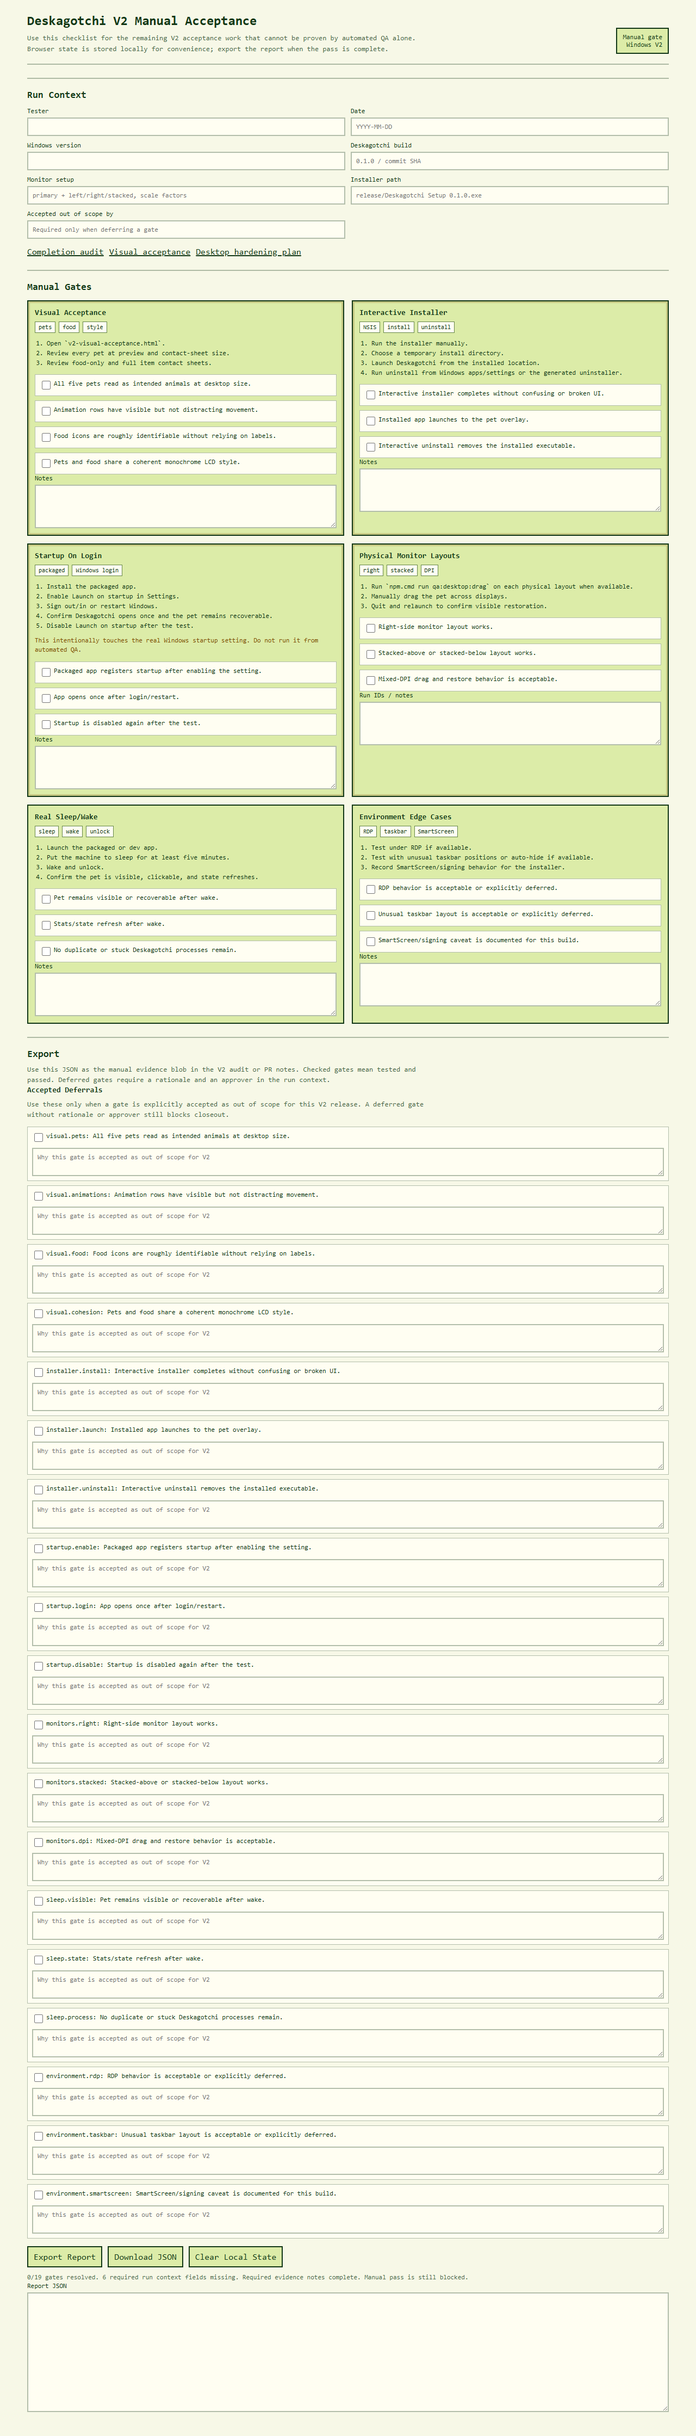
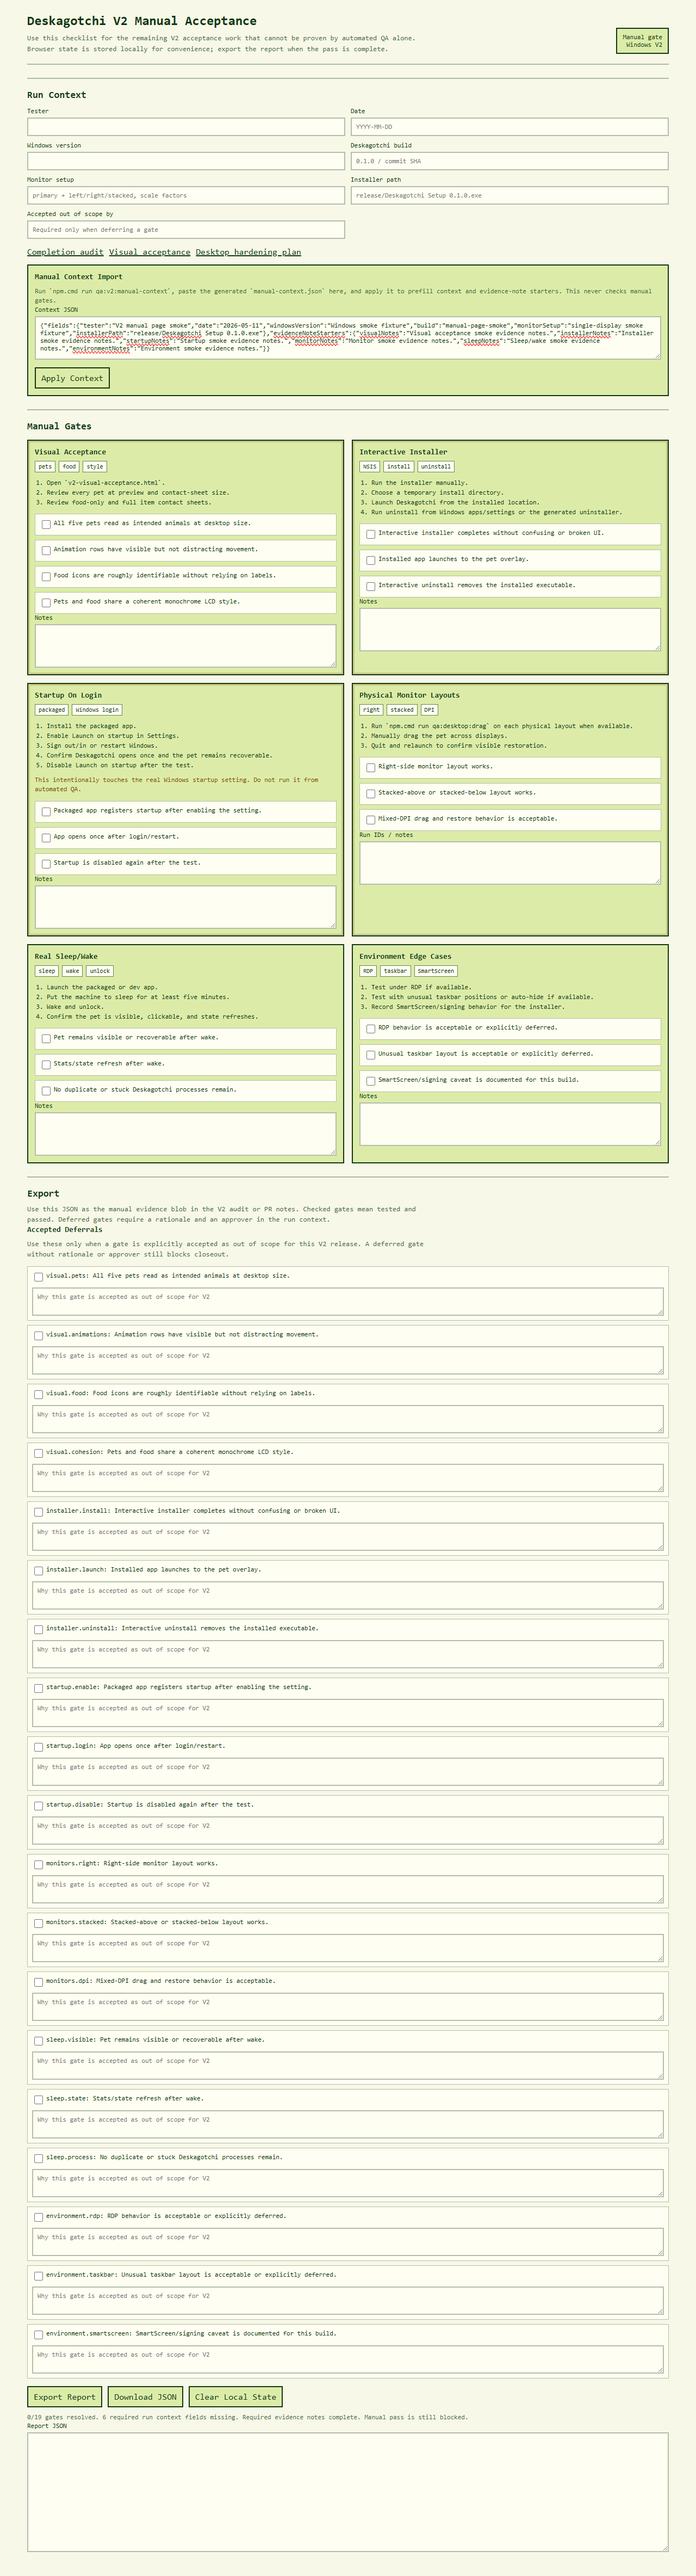
test(qa): import V2 manual context into checklist

Changed region(s): [[0.0312, 0.0, 0.9688, 0.9623], [0.875, 0.0, 0.9688, 0.031]]

diff --git a/docs/qa/v2-manual-acceptance.html b/docs/qa/v2-manual-acceptance.html
@@ -117,6 +117,10 @@
         box-shadow: inset 0 0 0 3px rgba(125, 77, 0, 0.22);
       }
 
+      .context-import {
+        margin-top: 14px;
+      }
+
       .meta {
         display: flex;
         flex-wrap: wrap;
@@ -288,6 +292,18 @@
           <a href="./v2-completion-audit.md">Completion audit</a>
           <a href="./v2-visual-acceptance.html">Visual acceptance</a>
           <a href="./desktop-hardening-v2.md">Desktop hardening plan</a>
+        </div>
+        <div class="card context-import">
+          <h3>Manual Context Import</h3>
+          <p class="status-line">
+            Run `npm.cmd run qa:v2:manual-context`, paste the generated
+            `manual-context.json` here, and apply it to prefill context and
+            evidence-note starters. This never checks manual gates.
+          </p>
+          <label class="field">Context JSON <textarea data-context-import></textarea></label>
+          <div class="actions">
+            <button type="button" data-action="apply-context">Apply Context</button>
+          </div>
         </div>
       </section>
 
@@ -660,12 +676,39 @@
       }
       document.querySelector("[data-action='export']").addEventListener("click", exportReport);
       document.querySelector("[data-action='download']").addEventListener("click", downloadReport);
+      document.querySelector("[data-action='apply-context']").addEventListener("click", applyManualContext);
       document.querySelector("[data-action='clear']").addEventListener("click", () => {
         localStorage.removeItem(storageKey);
         restoreState();
         exportOutput.value = "";
         updateProgress();
       });
+
+      function applyManualContext() {
+        const input = document.querySelector("[data-context-import]");
+        let context;
+        try {
+          context = JSON.parse(input.value || "{}");
+        } catch {
+          updateProgress("Manual context import failed: JSON could not be parsed.");
+          return;
+        }
+
+        for (const [fieldName, value] of Object.entries(context.fields || {})) {
+          const field = document.querySelector(`[data-field="${fieldName}"]`);
+          if (field && typeof value === "string") {
+            field.value = value;
+          }
+        }
+        for (const [fieldName, value] of Object.entries(context.evidenceNoteStarters || {})) {
+          const field = document.querySelector(`[data-field="${fieldName}"]`);
+          if (field && typeof value === "string") {
+            field.value = value;
+          }
+        }
+        saveState();
+        updateProgress("Manual context imported. Manual gates still require human checks or explicit deferrals.");
+      }
     </script>
   </body>
 </html>

diff --git a/docs/qa/using-qa.md b/docs/qa/using-qa.md
@@ -83,7 +83,9 @@ npm.cmd run qa:v2:manual-context
 This writes `.qa-runs/<run-id>-manual-context/report.md` with the current
 commit, package version, Windows version, installer candidate, latest QA run
 IDs, monitor topology from drag QA, and starter notes. It is only a prep
-artifact; it does not mark any manual gate as passed.
+artifact; it does not mark any manual gate as passed. Paste the generated
+`manual-context.json` into the manual checklist's context import box to prefill
+fields without checking any gate.
 
 Strict V2 closeout also requires a clean Git worktree. Use `--allow-dirty` only
 for fixture smoke checks such as `npm.cmd run qa:v2:audit:smoke`; do not use it

diff --git a/README.md b/README.md
@@ -172,7 +172,9 @@ npm.cmd run qa:v2:manual-context
 
 This writes `.qa-runs/<run-id>-manual-context/report.md` with the current build,
 installer candidate, latest QA run IDs, monitor topology, and starter evidence
-notes. It is manual-prep only and does not mark any manual gate as passed.
+notes. Paste the generated `manual-context.json` into the manual checklist's
+context import box to prefill fields. It is manual-prep only and does not mark
+any manual gate as passed.
 
 Regenerate LCD item icons:
 
